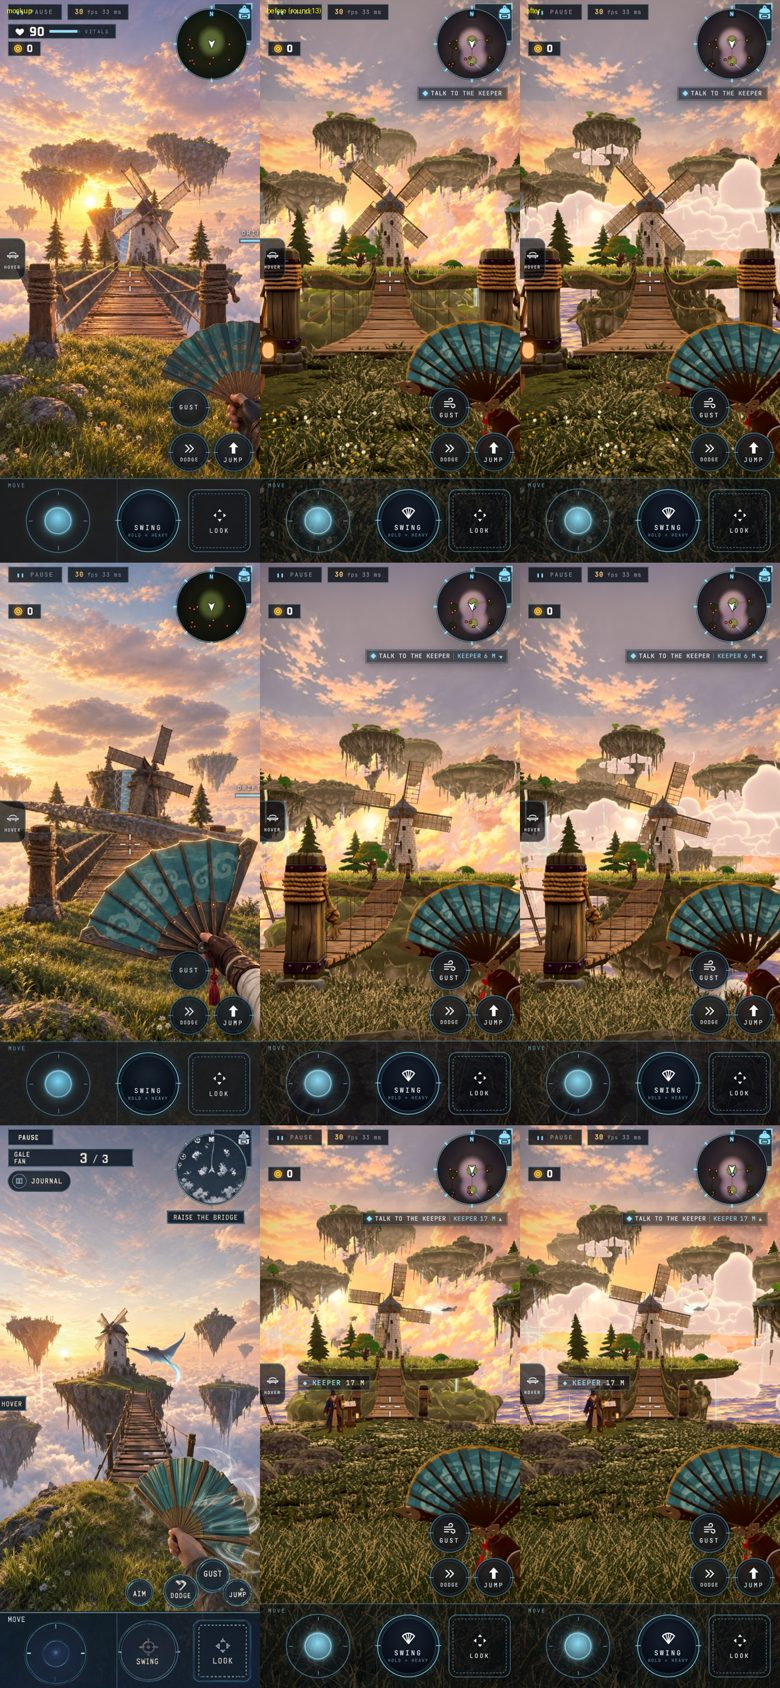
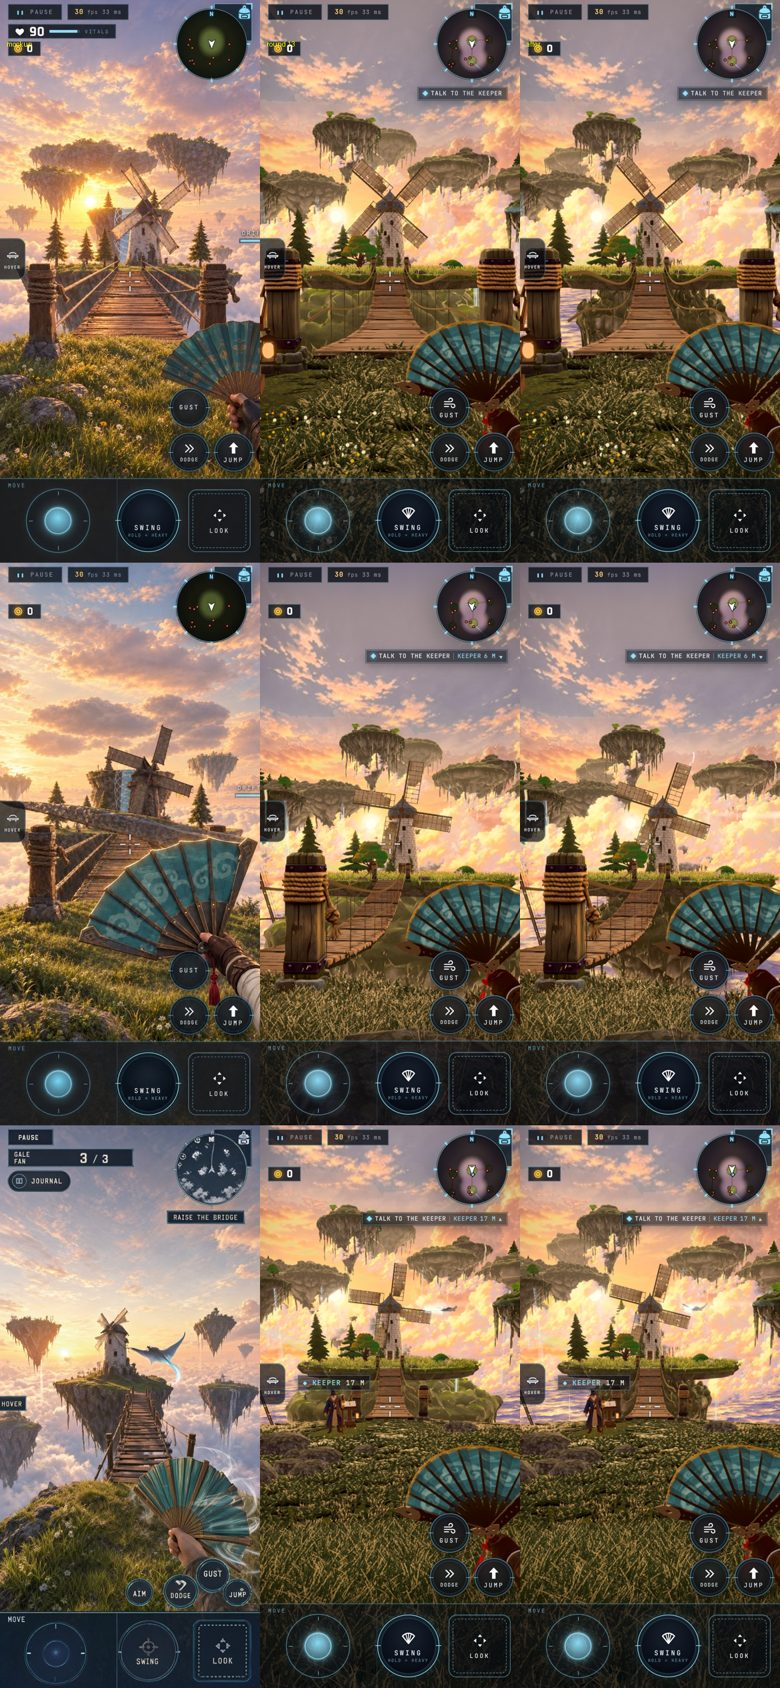
E407 Sky Reach row 5, second pass: painted cumulus banks, the volumetric cards dropped
The Cycles-volume cumulus of 7119cb4ae read as clean CG cotton against the painterly sky (the aerials, the cream cut-outs in
front of A's painted cumulus, the keel wisps as stickers); three fixes each, no convergence, so the shard keeps one painted
cloud hand: look/puffs.ts is back to the painted atlas (tex/clouds.webp restored, tex/cumulus.webp gone) and takes the
row's between-isle layer as 48 seeded banks (look/render.ts cloudBanks: 170-560 m out, -2 to 34 m up, clear of every
isle's rock, 90 m from the playable islands, the sun disc open from the spawn and the crown). Top 1 % A / C / proposal B
/ B 238.9 / 239.0 / 239.5 / 238.9 (mockups 238.4 / 235.7 / 238.8 / 240.3). The volumetric scripts and evidence move to
art/far-reach/round-30-cumulus/volumetric/.

Claude-Session: https://claude.ai/code/session_0188DaBQh3cU3bBzxR69C8us

diff --git a/src/shards/far-reach/look/puffs.ts b/src/shards/far-reach/look/puffs.ts
@@ -1,28 +1,21 @@
-import { Color, InstancedBufferAttribute, InstancedBufferGeometry, Mesh, PlaneGeometry, ShaderMaterial, type Texture, type Vector3 } from 'three';
+import { InstancedBufferAttribute, InstancedBufferGeometry, Mesh, PlaneGeometry, ShaderMaterial, type Texture, type Vector3 } from 'three';
 
 /**
  * Cumulus over the cloud sea (E392; the targets: the islands rise out of a sea of sunlit billowing cloud). A field of
- * camera-facing billboards, one draw, each showing one of eight volumetric cumulus from an atlas
- * (`public/assets/far-reach/tex/cumulus.webp`: E407 top-10 row 5, Cycles volumes rendered by
- * `scripts/blender/far-reach-clouds/clouds.py`, packed by its atlas.py; `art/far-reach/round-30-cumulus/`). Each cloud
- * is in the atlas twice, lit from behind the camera and from behind the cloud; a card blends the two by its view's angle
- * to the sun, so the clouds toward the low sun show the mockups' dark cores and silver rims, the rest their lit crowns.
- * The haze grows with distance (aerial perspective), so the layers separate. Most sit below the decks; `banks` are the
- * wide ones between and beyond the sky isles. Without the atlas (offline, a test page) the field is not built. Seeded:
- * every load grows the same sky.
+ * camera-facing billboards, one draw, each showing one of eight painted golden-hour cumulus puffs from an atlas
+ * (`public/assets/far-reach/tex/clouds.webp`, codex image_gen, `art/far-reach/round-17-mockup-loop/textures/`: puffs on
+ * black, so the brightness is the alpha). They sit below the decks (the tops stay under the islands' rims, so a view
+ * across the archipelago never looks through a cloud) and thin out with distance into the painted panorama's sea.
+ * Without the atlas (offline, a test page) the field is not built. Seeded: every load grows the same sky.
  */
 /** `spiral`: puffs laid on three log-spiral arms round the storm crown, under its deck (the H4 god-view targets). */
-export const PUFFS = { spiral: { count: 0, x: 0, z: -190, y: [-12, 20], r: [24, 100] }, count: 380, ring: [10, 600], y: [-6, 18], size: [24, 62], fade: [520, 820], centre: [0, -100], cells: [4, 4], haze: [140, 760, 0.62] } as const;
-
-type Puff = readonly [number, number, number, number];
-/** A cloud of the atlas: `cell` 0..7, its column and its front-lit row (the back-lit one is the row under it). */
-const cellOf = (cell: number): [number, number] => [cell % 4, Math.floor(cell / 4) * 2];
+export const PUFFS = { spiral: { count: 0, x: 0, z: -190, y: [-12, 20], r: [24, 100] }, count: 380, ring: [10, 600], y: [-6, 18], size: [24, 62], fade: [520, 820], centre: [0, -100], cells: [4, 2], bankFade: 0.62 } as const;
 
 /**
- * `keelPuffs`: [x, y, z, size] puffs hugging the islands' undersides (the targets' clouds wrap the keels). `banks`: wide
- * low cumulus (the atlas' first four, the banks) between and beyond the sky isles. `haze`: the colour the far ones melt into.
+ * `keelPuffs`: [x, y, z, size] puffs hugging the islands' undersides (the targets' clouds wrap the keels). `banks`: the
+ * cumulus between and beyond the sky isles at several depths (E407 top-10 row 5; look/render.ts cloudBanks).
  */
-export function cumulus(sun: Vector3, atlas: Texture, keelPuffs: readonly Puff[] = [], banks: readonly Puff[] = [], haze: Color = new Color(0xf0c9b6)): Mesh<InstancedBufferGeometry, ShaderMaterial> {
+export function cumulus(sun: Vector3, atlas: Texture, keelPuffs: readonly (readonly [number, number, number, number])[] = [], banks: readonly (readonly [number, number, number, number])[] = []): Mesh<InstancedBufferGeometry, ShaderMaterial> {
   let a = 9317 >>> 0;
   const rnd = (): number => { a = (a + 0x6d2b79f5) >>> 0; let t = a; t = Math.imul(t ^ (t >>> 15), t | 1); t ^= t + Math.imul(t ^ (t >>> 7), t | 61); return ((t ^ (t >>> 14)) >>> 0) / 4294967296; };
   const base = new PlaneGeometry(2, 2), g = new InstancedBufferGeometry();
@@ -36,7 +29,8 @@ export function cumulus(sun: Vector3, atlas: Texture, keelPuffs: readonly Puff[]
     // the puff's top (its centre + its height) stays under the decks: a tall one sat in front of every first-person view
     const y = Math.min(PUFFS.y[0] + (PUFFS.y[1] - PUFFS.y[0]) * rnd(), 30 - size);
     at.set([PUFFS.centre[0] + Math.cos(ang) * r, y, PUFFS.centre[1] + Math.sin(ang) * r, size], i * 4);
-    cell.set(cellOf(Math.floor(rnd() * 8)), i * 2);
+    const k = Math.floor(rnd() * PUFFS.cells[0] * PUFFS.cells[1]);
+    cell.set([k % PUFFS.cells[0], Math.floor(k / PUFFS.cells[0])], i * 2);
   }
   for (let i = 0; i < ns; i++) {
     const k = PUFFS.count + i, f = i / ns, arm = i % 3, rr = PUFFS.spiral.r[0] + (PUFFS.spiral.r[1] - PUFFS.spiral.r[0]) * f;
@@ -45,53 +39,50 @@ export function cumulus(sun: Vector3, atlas: Texture, keelPuffs: readonly Puff[]
     const ang = arm * (Math.PI * 2 / 3) + 2.6 * Math.log(rr / 16 + 1) + (rnd() - 0.5) * 0.22;
     // a funnel: the eye sinks, the walls rise outward toward the crown's base (the H4 targets' maelstrom)
     at.set([PUFFS.spiral.x + Math.cos(ang) * rr, PUFFS.spiral.y[0] + (PUFFS.spiral.y[1] - PUFFS.spiral.y[0]) * Math.min(1, f * 1.4) ** 0.8 * (0.6 + 0.4 * rnd()), PUFFS.spiral.z + Math.sin(ang) * rr, 16 + rnd() * 18 + f * 20], k * 4);
-    cell.set(cellOf(Math.floor(rnd() * 8)), k * 2);
+    const c = Math.floor(rnd() * PUFFS.cells[0] * PUFFS.cells[1]); cell.set([c % PUFFS.cells[0], Math.floor(c / PUFFS.cells[0])], k * 2);
   }
   keelPuffs.forEach((k, i) => {
-    const j = PUFFS.count + ns + i;
-    at.set([k[0], k[1], k[2], k[3]], j * 4); cell.set(cellOf(Math.floor(rnd() * 8)), j * 2);
+    const j = PUFFS.count + ns + i, c = Math.floor(rnd() * PUFFS.cells[0] * PUFFS.cells[1]);
+    at.set([k[0], k[1], k[2], k[3]], j * 4); cell.set([c % PUFFS.cells[0], Math.floor(c / PUFFS.cells[0])], j * 2);
   });
   banks.forEach((k, i) => {
-    const j = PUFFS.count + ns + nk + i;
-    at.set([k[0], k[1], k[2], k[3]], j * 4); cell.set(cellOf(Math.floor(rnd() * 4)), j * 2);
+    const j = PUFFS.count + ns + nk + i, c = Math.floor(rnd() * PUFFS.cells[0] * PUFFS.cells[1]);
+    at.set([k[0], k[1], k[2], k[3]], j * 4); cell.set([c % PUFFS.cells[0], Math.floor(c / PUFFS.cells[0])], j * 2);
   });
+  // a bank's fade distance is stretched by its own reach (the far layers stay; the field thins out as before)
+  const far = new Float32Array(n).fill(1); for (let i = 0; i < nb; i++) far[PUFFS.count + ns + nk + i] = PUFFS.bankFade;
+  g.setAttribute('aFar', new InstancedBufferAttribute(far, 1));
   g.setAttribute('aAt', new InstancedBufferAttribute(at, 4)); g.setAttribute('aCell', new InstancedBufferAttribute(cell, 2)); g.instanceCount = n;
   const material = new ShaderMaterial({ transparent: true, depthWrite: false, fog: false,
-    uniforms: { uSun: { value: sun }, uAtlas: { value: atlas }, uHaze: { value: haze } },
+    uniforms: { uSun: { value: sun }, uAtlas: { value: atlas } },
     vertexShader: /* glsl */`
-      attribute vec4 aAt; attribute vec2 aCell; varying vec2 vUv; varying vec2 vUvBack; varying float vFade; varying float vBack; varying float vHaze;
+      attribute vec4 aAt; attribute vec2 aCell; attribute float aFar; varying vec2 vUv; varying float vFade; varying float vToSun;
       uniform vec3 uSun;
       void main(){
         vec3 toCam = normalize(cameraPosition - aAt.xyz);
         vec3 right = normalize(cross(vec3(0.0, 1.0, 0.0), toCam)); vec3 up = cross(toCam, right);
-        // an atlas cell is 2:1 (512 x 256 of the 4 x 4 sheet); row 0 is the sheet's top row; the cloud's base sits a
-        // tenth up its cell, so the card stands on aAt
-        vec3 world = aAt.xyz + (right * position.x + up * (position.y + 0.8) * 0.5) * aAt.w;
+        // an atlas cell is 3:4 (384 x 512 of the 4 x 2 sheet); row 0 is the sheet's top row
+        vec3 world = aAt.xyz + (right * position.x * 0.75 + up * position.y) * aAt.w;
         vec2 inCell = position.xy * 0.5 + 0.5;
-        float u = (aCell.x + inCell.x) / ${PUFFS.cells[0].toFixed(1)};
-        vUv = vec2(u, 1.0 - (aCell.y + 1.0 - inCell.y) / ${PUFFS.cells[1].toFixed(1)});
-        vUvBack = vUv - vec2(0.0, 1.0 / ${PUFFS.cells[1].toFixed(1)});
+        vUv = vec2((aCell.x + inCell.x) / ${PUFFS.cells[0].toFixed(1)}, 1.0 - (aCell.y + 1.0 - inCell.y) / ${PUFFS.cells[1].toFixed(1)});
         float d = length(aAt.xz - cameraPosition.xz);
-        vFade = 1.0 - smoothstep(${PUFFS.fade[0].toFixed(1)}, ${PUFFS.fade[1].toFixed(1)}, d);
-        vHaze = smoothstep(${PUFFS.haze[0].toFixed(1)}, ${PUFFS.haze[1].toFixed(1)}, d) * ${PUFFS.haze[2].toFixed(2)};
-        // the back-lit render toward the sun, the front-lit one away from it
-        vBack = smoothstep(-0.1, 0.85, dot(-toCam, uSun));
+        vFade = 1.0 - smoothstep(${PUFFS.fade[0].toFixed(1)}, ${PUFFS.fade[1].toFixed(1)}, d * aFar);
+        vToSun = max(dot(-toCam, uSun), 0.0);
         gl_Position = projectionMatrix * viewMatrix * vec4(world, 1.0);
       }`,
     fragmentShader: /* glsl */`
-      uniform sampler2D uAtlas; uniform vec3 uHaze; varying vec2 vUv; varying vec2 vUvBack; varying float vFade; varying float vBack; varying float vHaze;
+      uniform sampler2D uAtlas; varying vec2 vUv; varying float vFade; varying float vToSun;
       void main(){
-        vec4 f = texture2D(uAtlas, vUv), b = texture2D(uAtlas, vUvBack);
-        vec4 t = mix(f, b, vBack);
-        float alpha = t.a * vFade;
+        vec3 t = texture2D(uAtlas, vUv).rgb;
+        // the dark matte fringe is cut by alpha (no ink outline); the painted shading inside is kept
+        float lum = dot(t, vec3(0.3, 0.59, 0.11)), body = smoothstep(0.24, 0.5, lum);
+        float alpha = body * vFade;
         if (alpha < 0.01) discard;
-        // the render's grey light to the golden hour: lavender in the shaded bellies, the lit crowns and the rims warm
-        float lum = dot(t.rgb, vec3(0.2126, 0.7152, 0.0722)), lit = smoothstep(0.2, 0.75, lum);
-        vec3 c = mix(vec3(0.74, 0.6, 0.74) * (0.5 + 0.6 * lum), vec3(1.0, 0.86, 0.68) * (0.7 + 0.42 * lum), lit);
-        // toward the low sun the whole cloud glows warm through (the mockups' cumulus by the sun outshine the sky behind)
-        c += vec3(1.0, 0.72, 0.4) * vBack * vBack * 0.3 * (1.0 - 0.5 * lit);
-        // aerial perspective: the far banks melt into the haze, so the layers separate
-        c = mix(c, uHaze, vHaze);
+        // contrast: lavender in the shaded bellies, the lit crowns warm (the targets' billows read one by one)
+        float lit = smoothstep(0.35, 0.85, lum);
+        vec3 c = mix(t * vec3(0.78, 0.76, 1.02), t * vec3(1.18, 1.12, 1.02), lit);
+        // a touch of rim gold when the sun is behind the cloud
+        c += vec3(1.0, 0.78, 0.45) * pow(vToSun, 6.0) * (1.0 - smoothstep(0.3, 0.7, lum)) * 0.5;
         gl_FragColor = vec4(c, alpha);
       }` });
   const mesh = new Mesh(g, material); mesh.frustumCulled = false; mesh.renderOrder = -5; mesh.name = 'far.cumulus';

diff --git a/src/shards/far-reach/look/render.ts b/src/shards/far-reach/look/render.ts
@@ -1,4 +1,4 @@
-import { Color, Fog, Mesh, type Object3D, type Texture } from 'three';
+import { Color, Fog, Mesh, Vector3, type Object3D, type Texture } from 'three';
 import { ToneMappingMode } from 'postprocessing';
 import { DayCycle, patchShader, PATCH_ORDER, type LookStrategy } from '#engine';
 import { FOG, SKY, SUN_DIR } from './sun';
@@ -60,26 +60,28 @@ function keelPuffs(): [number, number, number, number][] {
 
 /**
  * The cumulus banks between and beyond the sky isles (E407 top-10 row 5: the mockups stack sunlit cloud at many depths
- * under and between their islands; ours sat in one painted sky): [x, y, z, size], seeded. Each clears every isle's rock
- * (a cloud never cuts an island), the playable islands by `clear` metres (no bank in front of a player's face) and the
- * sun's bearing by `sunCone` degrees (the sun patch in A and D stays open).
+ * under and between their islands; ours sat in one painted sky): [x, y, z, size] in look/puffs.ts' painted cumulus,
+ * seeded. Each clears every isle's rock (a cloud never cuts an island) and the playable islands by `clear` metres (no
+ * bank in front of a player's face), and leaves the sun disc open from the spawn and from the crown: no bank within its
+ * own angular size plus `sunGap` degrees of the sun from either.
  */
-export const BANKS = { count: 56, centre: [0, -110], ring: [170, 560], y: [-4, 26], size: [20, 48], clear: 90, sunCone: 12 } as const;
+export const BANKS = { count: 48, centre: [0, -110], ring: [170, 560], y: [-2, 34], size: [22, 44], clear: 90, sunGap: 5 } as const;
 export function cloudBanks(): [number, number, number, number][] {
   const out: [number, number, number, number][] = [];
   let a = 7717;
   const rnd = (): number => { a = (a * 16807) % 2147483647; return a / 2147483647; };
-  const sun = Math.atan2(SUN_DIR.z, SUN_DIR.x), cone = (BANKS.sunCone * Math.PI) / 180;
+  const eyes = ISLES.filter((isle) => isle.id === 'sunrest' || isle.id === 'crown').map((isle) => new Vector3(isle.x, isle.y + 1.7, isle.z));
+  const to = new Vector3(), gap = (BANKS.sunGap * Math.PI) / 180;
   for (let tries = 0; out.length < BANKS.count && tries < BANKS.count * 20; tries++) {
     const ang = rnd() * Math.PI * 2, r = BANKS.ring[0] + (BANKS.ring[1] - BANKS.ring[0]) * Math.sqrt(rnd());
     const x = BANKS.centre[0] + Math.cos(ang) * r, z = BANKS.centre[1] + Math.sin(ang) * r;
-    // nearer ones lower (below the decks), the far ones up to the isles' band
+    // nearer ones lower (under the decks), the far ones up into the isles' band
     const y = BANKS.y[0] + (BANKS.y[1] - BANKS.y[0]) * (0.35 * rnd() + 0.65 * (r - BANKS.ring[0]) / (BANKS.ring[1] - BANKS.ring[0]));
     const size = BANKS.size[0] + (BANKS.size[1] - BANKS.size[0]) * rnd();
-    if (Math.abs(Math.atan2(Math.sin(ang - sun), Math.cos(ang - sun))) < cone) continue;
     if (ISLES.some((isle) => Math.hypot(x - isle.x, z - isle.z) < BANKS.clear + size)) continue;
-    // the card spans size either side and 0.9 size up: clear of every isle's deck-to-keel column
-    if ([...ISLES, ...SKY_ISLES].some((isle) => Math.hypot(x - isle.x, z - isle.z) < isle.r + size && y < isle.y + 4 && y + size * 0.9 > isle.y - isle.keel)) continue;
+    // a puff card spans 0.75 size either side and size up and down round its centre: clear of every isle's deck-to-keel column
+    if ([...ISLES, ...SKY_ISLES].some((isle) => Math.hypot(x - isle.x, z - isle.z) < isle.r + size * 0.75 && y - size < isle.y + 4 && y + size > isle.y - isle.keel)) continue;
+    if (eyes.some((eye) => { to.set(x, y, z).sub(eye); const d = to.length(); return to.angleTo(SUN_DIR) < Math.atan(size / d) + gap; })) continue;
     out.push([x, y, z, size]);
   }
   return out;
@@ -134,7 +136,7 @@ export async function skyReachLook(): Promise<LookStrategy> {
       }
       // cumulus over the sea (loop 5): the islands rise out of billowing cloud
       if (cloudAtlas !== null) {
-        const puffs = cumulus(SUN_DIR, cloudAtlas, keelPuffs(), cloudBanks(), new Color(SKY.fog)); scene.add(puffs); scope.own(cloudAtlas); scope.own(puffs.geometry); scope.own(puffs.material); scope.onDispose(() => { puffs.removeFromParent(); });
+        const puffs = cumulus(SUN_DIR, cloudAtlas, keelPuffs(), cloudBanks()); scene.add(puffs); scope.own(cloudAtlas); scope.own(puffs.geometry); scope.own(puffs.material); scope.onDispose(() => { puffs.removeFromParent(); });
       }
       return { chain };
     },

diff --git a/src/shards/far-reach/boot/files.ts b/src/shards/far-reach/boot/files.ts
@@ -41,7 +41,7 @@ const HD_URLS: Readonly<Record<SkyHdName, string>> = {
 };
 export const skyHdUrl = (name: SkyHdName): string => HD_URLS[name];
 /** The painted textures (E392, `art/far-reach/round-17-mockup-loop/textures/`): keel rock, meadow ground, the cumulus atlas. */
-export const TEX_URL = { rock: '/assets/far-reach/tex/rock.webp', meadow: '/assets/far-reach/tex/meadow.webp', clouds: '/assets/far-reach/tex/cumulus.webp', branches: '/assets/far-reach/tex/branches.webp', cloudsea: '/assets/far-reach/tex/cloudsea.webp', maelstrom: '/assets/far-reach/tex/maelstrom.webp', stormeye: '/assets/far-reach/tex/stormeye.webp',
+export const TEX_URL = { rock: '/assets/far-reach/tex/rock.webp', meadow: '/assets/far-reach/tex/meadow.webp', clouds: '/assets/far-reach/tex/clouds.webp', branches: '/assets/far-reach/tex/branches.webp', cloudsea: '/assets/far-reach/tex/cloudsea.webp', maelstrom: '/assets/far-reach/tex/maelstrom.webp', stormeye: '/assets/far-reach/tex/stormeye.webp',
   millStone: '/assets/far-reach/tex/mill-stone.webp', millCanvas: '/assets/far-reach/tex/mill-canvas.webp', millIvy: '/assets/far-reach/tex/mill-ivy.webp' } as const;
 /** The war fan's painted silk leaf (weapons/fanModel.ts). */
 export const FAN_LEAF_URL = '/assets/far-reach/fan/leaf.webp';

diff --git a/docs/plans/SKY-REACH-TOP10.md b/docs/plans/SKY-REACH-TOP10.md
@@ -63,7 +63,7 @@ After each row: commit, capture, send 'ready for round N'.
 | 2 | sky-reach | landed (first pass) | five Hunyuan3D-2 trees from the mockups' trees (`art/far-reach/round-26-trees/`: tall, wide and young pines, an oak, a bush; 6k tris, 130-187 KB each) on every tree spot by a seeded share, own yaw, scale and lean, bark pulled to brown (world/trees.ts); the card firs stay the fallback |
 | 3 | sky-reach (fan subagent) | done 2026-10-03, `a9454b567` | Chamfered angular guards, pierced plates, deeper pleats, new cloud-silk leaf, the tassel plumb from the pivot; a layered Hunyuan glove with a lamellar bracer. One hold for all views; measured (exact projected mask, 390x844): left 171→201, top ~456→~480, share 7.8→6.6 %; IoU with the mockups' fans C 0.33→0.45, A 0.35→0.67, B 0.22→0.46, proposal B 0.48→0.53. C's 13.6 % hero framing is reached by no ordinary pose, so the modest hold stays. Board: `art/far-reach/round-23-fan-glove/` |
 | 4 | sky-reach (meadow subagent) | built e0e4b837c | Three grasses placed by noise and slope, green roots to warm tips, and one through-light term (the glowNear split is gone). Also the mipped-atlas coverage fix, daisy drifts and 41 lichened meadow rocks. Seats' patches, mockup / before / after: A L 40/61/105 / 45/63/90 / 32/57/107, hp 12.4 / 10.4 / 16.3; B spread 72 / 49 / 78; pB spread 63 / 39 / 72; near ground A 61/63/57, C 67/78/76, D 56/85/59. Board: art/far-reach/round-24-meadow/. Left: C's patch is bright, the mid-field tufts are patchy, blue is short. |
-| 5 | sky-reach | landed (first pass) | eight Cycles-volume cumulus, each lit front and back (`scripts/blender/far-reach-clouds/`, `art/far-reach/round-30-cumulus/`), blended by the view's angle to the sun, hazed with distance; 56 seeded banks between and beyond the sky isles, clear of the rock, the playable islands and the sun's bearing; top 1 % A / C / proposal B 237.5 / 236.9 / 237.4 (mockups 238.4 / 235.7 / 238.8) |
+| 5 | sky-reach | landed (painted banks) | 48 seeded cumulus banks between and beyond the sky isles in the shard's painted cumulus (look/render.ts cloudBanks), clear of the rock, the playable islands and the sun disc; Cycles-volume cumulus were tried and dropped (CG cotton against the painterly sky; `art/far-reach/round-30-cumulus/volumetric/`); top 1 % A / C / proposal B 238.9 / 239.0 / 239.5 (mockups 238.4 / 235.7 / 238.8) |
 | 6 | sky-reach | open | |
 | 7 | sky-reach | landed (first pass) | two Hunyuan3D-2 standing stones with cut spiral runes and a carved compass dais from mockup D (`art/far-reach/round-28-crown/`, 8k tris each) in place of the code set (world/crown.ts carvedSet); colliders unchanged; board-d.jpg |
 | 8 | sky-reach | landed (first pass) | a Hunyuan3D-2 eagle from mockup D's (`art/far-reach/round-27-roc/`: white head, hooked beak, slate-and-white layered wings, talons forward; 12k tris, 1024 WebP) as roc-hd, pitched head-up as the mockup flies it, span 16 m; the auto-rig flaps it; its take-off toward the entrance (round 10) and its perch reset on a retry (round 12) kept; board-d.jpg |

diff --git a/art/far-reach/round-30-cumulus/README.md b/art/far-reach/round-30-cumulus/README.md
@@ -1,7 +1,8 @@
-# Sky Reach top-10 row 5: volumetric cumulus (E407)
+# Sky Reach top-10 row 5: cumulus between the isles (E407)
 
-Eight cumulus rendered as true Cycles volumes (scripts/blender/far-reach-clouds/clouds.py: seeded sphere unions warped by two noises, eroded, flat bases; Blender 5.2.1, Metal, 128 samples, ~3 min under the model lock), each lit twice: the sun behind the camera (front) and the low sun behind the cloud (back). atlas.py packs them into public/assets/far-reach/tex/cumulus.webp (4 x 4 cells of 512 x 256, straight alpha, 225 KB), replacing the codex-painted clouds.webp. look/puffs.ts blends a card's two lightings by its view's angle to the sun, grades them to the golden hour (lavender-peach bellies, warm crowns, a warm glow toward the sun) and hazes them into the fog colour with distance (140-760 m, at most 62 %). look/render.ts adds 56 seeded banks between and beyond the sky isles (170-560 m out, -4 to 26 m up, clear of every isle's rock, 90 m clear of the playable islands, out of a 12 deg cone toward the sun).
+**Shipped: painted banks.** look/render.ts cloudBanks() lays 48 seeded cumulus banks between and beyond the sky isles (170-560 m out from (0, -110), -2 to 34 m up, nearer ones lower), drawn in look/puffs.ts' painted golden-hour cumulus (tex/clouds.webp, the same hand as the panorama and the keel wisps); each clears every isle's rock, stays 90 m from the playable islands, and leaves the sun disc open from the spawn and the crown (its angular size + 5 deg). Their fade reaches 1.6x the field's, so the far layers stay.
 
-- atlas-preview.jpg: the atlas over a sunset gradient (rows 1 and 3 front-lit, 2 and 4 back-lit).
-- board.jpg: mockup / round 13 / after, for A, C and proposal B. Measured (Rec. 709): top 1 % A 237.5 (mock 238.4), C 236.9 (235.7), proposal B 237.4 (238.8); share over 230 2.0 / 1.8 / 2.1 % (mock 2.1 / 1.9 / 3.8).
-- keels-aerial.jpg: the playable keels before / after (round 13 seat C: keels fitted inside their decks, rock only).
+- board.jpg: mockup / round 13 / after (cap57), A, C, proposal B. Measured (Rec. 709): top 1 % A 238.9, C 239.0, proposal B 239.5, B 238.9 (mockups 238.4 / 235.7 / 238.8 / 240.3); over 230: 2.5 / 2.6 / 2.9 / 2.3 % (mockups 2.1 / 1.9 / 3.8 / 2.2).
+- keels-aerial.jpg: the playable keels round 13 / after (seat C: the keels fitted inside their decks, rock only, the mill on the rock mass).
+
+**Tried and dropped: volumetric cumulus** (volumetric/). clouds.py rendered eight cumulus as Cycles volumes, lit front and back, packed by atlas.py into a 2048 x 1024 atlas; a card blended the two lightings by its angle to the sun. In the game they read as clean CG cotton against the painterly sky: aerial-painted-vs-volumetric.jpg (round 13 painted / volumetric / shipped), A-volumetric-field.jpg (cream cut-outs in front of the painted sky's lit cumulus); the keel wisps became stickers on the roots, and a high layer read as pale lavender blobs. Three fixes on each, no convergence (the skill's bounded loop), so the shard keeps one painted cloud hand.
